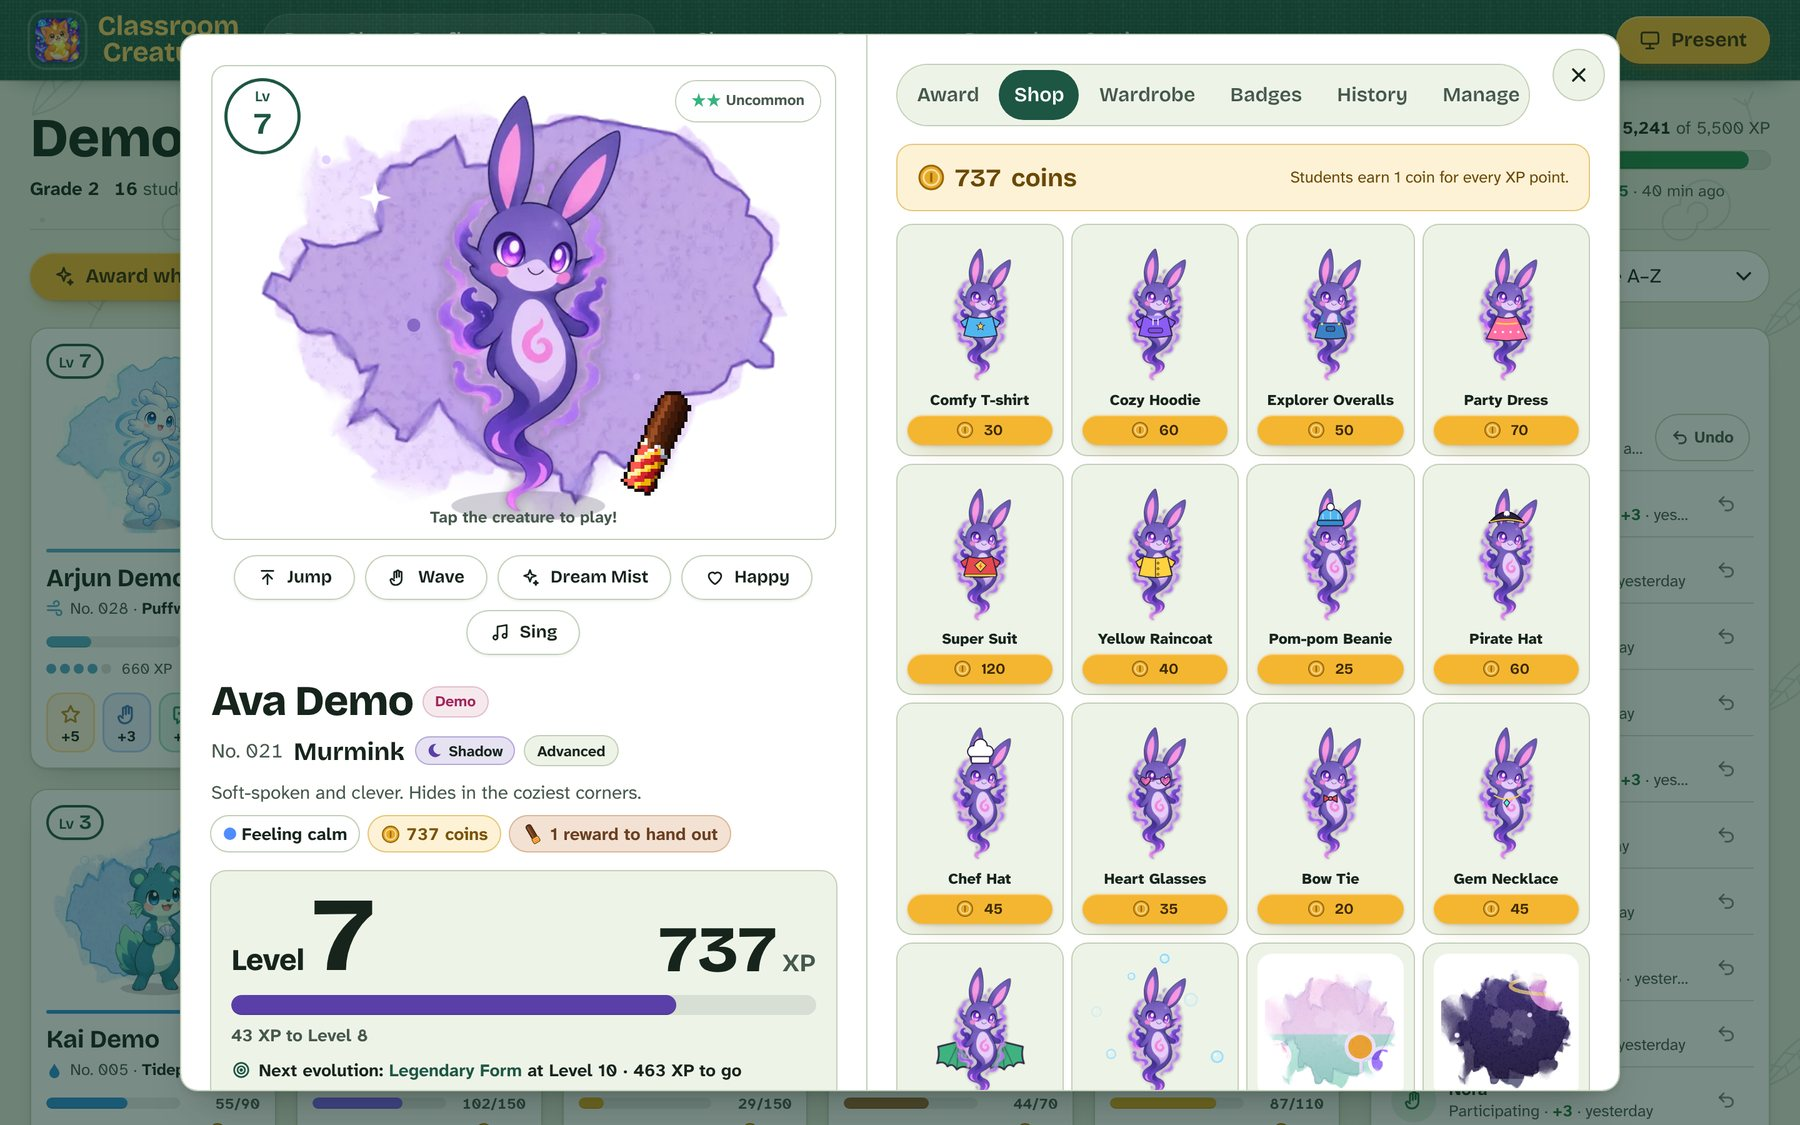
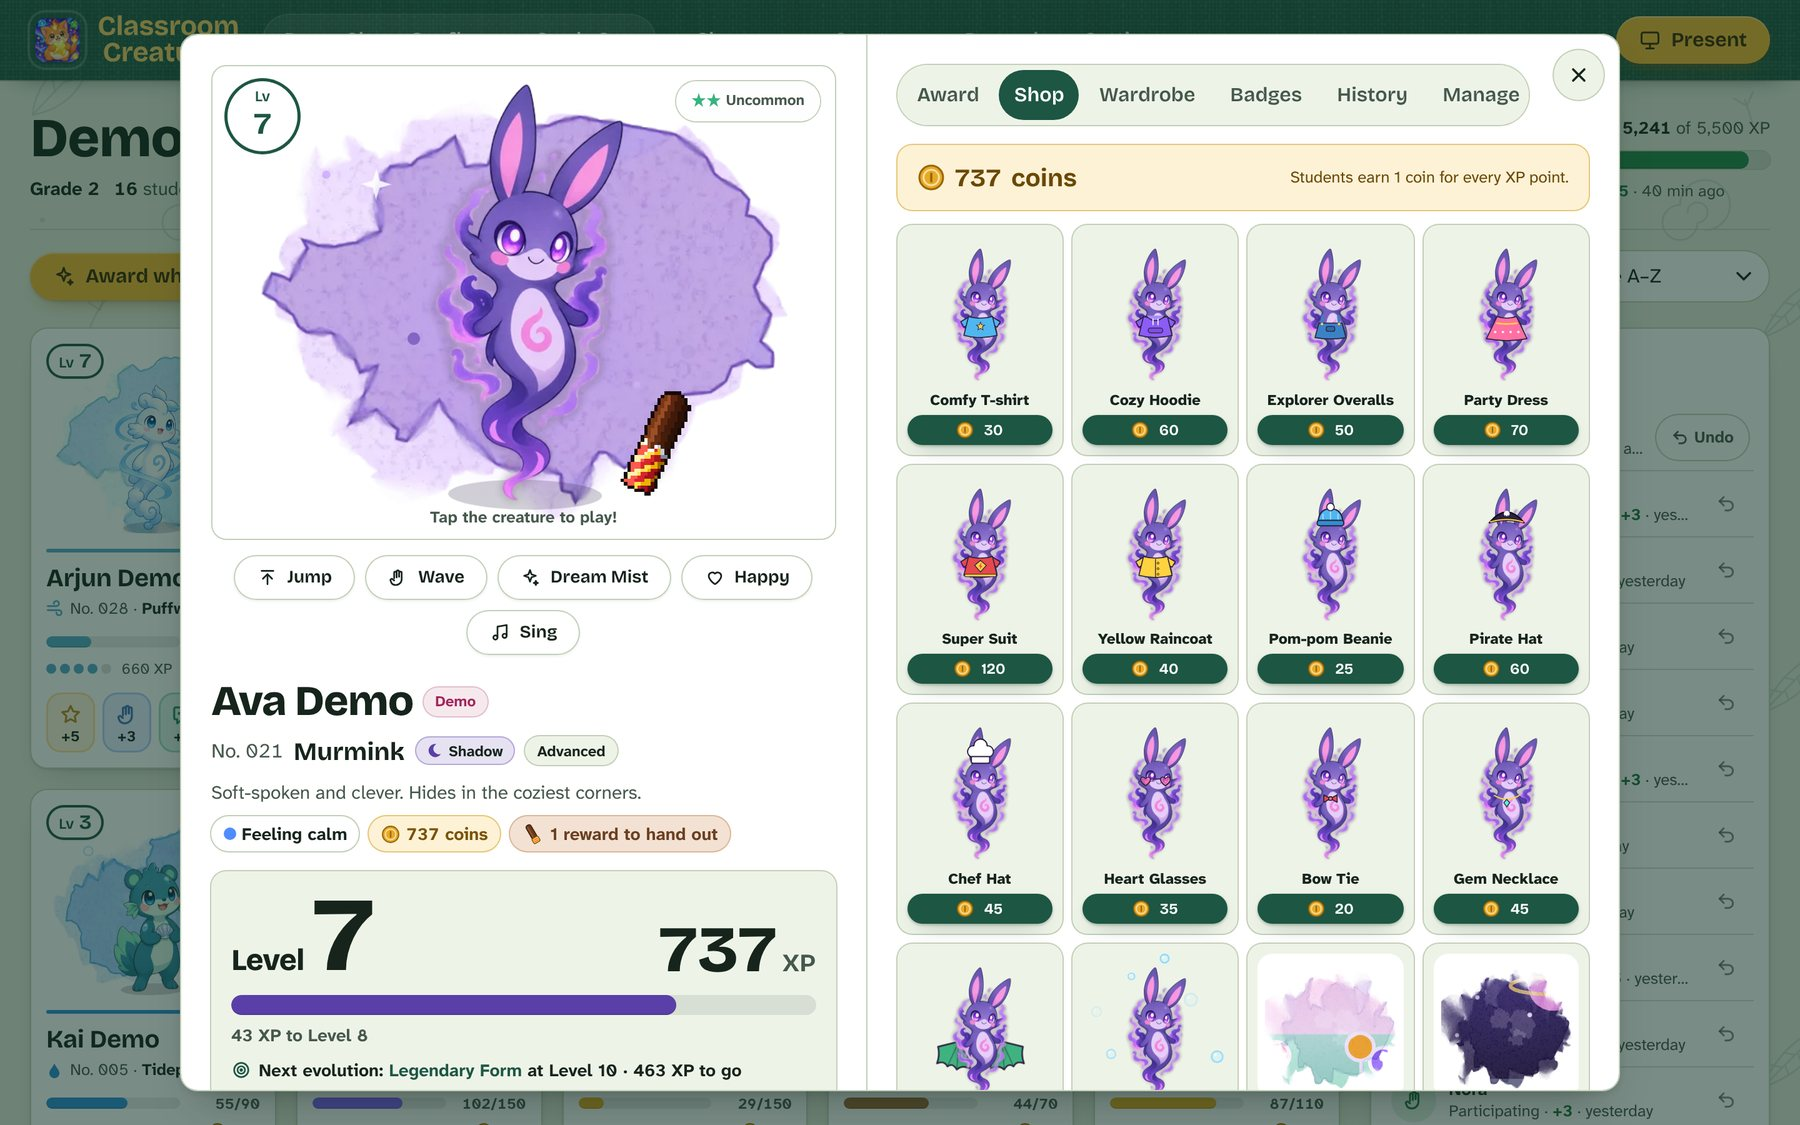
style: shop buy buttons use bookcloth, keeping marigold for "now"
Twelve gold buy buttons diluted the rule that marigold marks only the
current action, selection, tab and just-rewarded plate.

Task: UI and background redesign (v1.3)

Claude-Session: https://claude.ai/code/session_0146Sco5Dyscef7FdmFmnUiR

diff --git a/src/views/StudentProfile.tsx b/src/views/StudentProfile.tsx
@@ -191,7 +191,7 @@ function Shop({ student }: { student: Student }) {
               {owned ? (
                 <button className="btn btn-light mt-1 !py-1 !text-xs" onClick={() => equip(student.id, it.slot, it.id)}><Icon name="check" size={14} strokeWidth={2.6} />Owned · Wear</button>
               ) : (
-                <button className="btn btn-primary mt-1 !py-1 !text-xs" disabled={!can}
+                <button className="btn btn-cloth mt-1 !py-1 !text-xs" disabled={!can}
                   onClick={() => { if (buy(student.id, it.id)) { if (sound) { playCoin(); setTimeout(playPop, 120); } equip(student.id, it.slot, it.id); notify(`${student.name.split(' ')[0]} bought ${it.name}!`); } }}>
                   <CoinIcon size={14} />{price}
                 </button>
